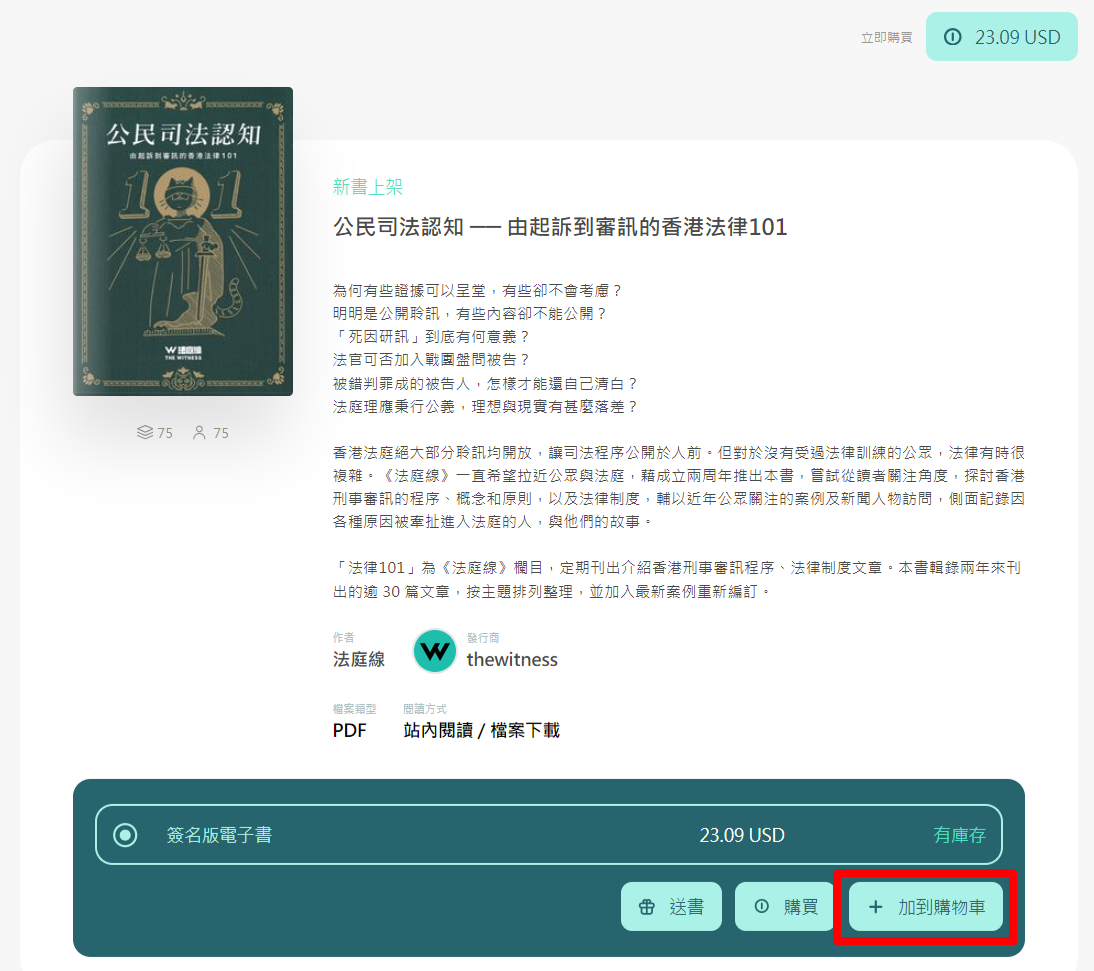
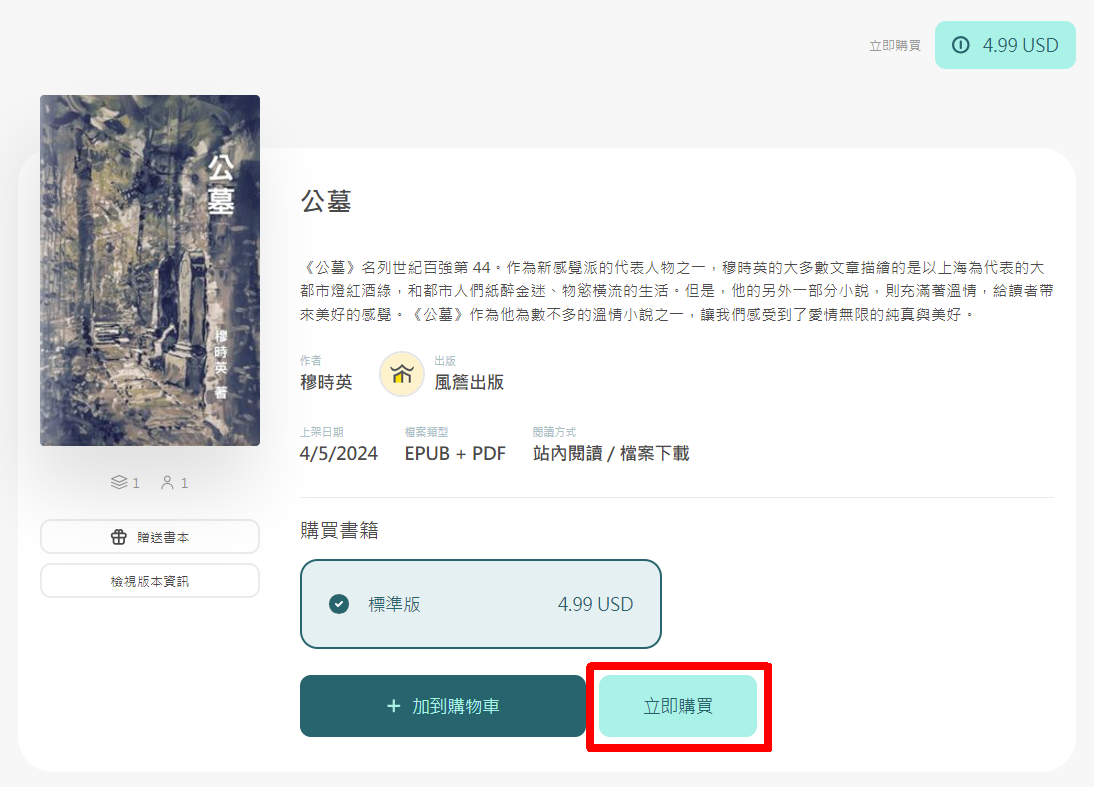
GITBOOK-4725: 購買電子書

diff --git a/SUMMARY.md b/SUMMARY.md
@@ -19,11 +19,11 @@
   * [修改已出版的電子書資料](depub/nft-book-press/modify.md)
   * [銷毁已出版的電子書](depub/nft-book-press/burn.md)
 * [購買電子書](depub/ebook/README.md)
+  * [送贈電子書](depub/ebook/gift.md)
   * [閱讀電子書](depub/ebook/read.md)
   * [匯入電子書檔到閱讀器](depub/ebook/ereader/README.md)
     * [匯入電子書檔到 Readmoo](depub/ebook/ereader/readmoo.md)
     * [匯入電子書檔到 Kobo](depub/ebook/ereader/hui-ru-dian-zi-shu-dang-dao-kobo.md)
-  * [送贈電子書](depub/ebook/gift.md)
   * [其他電子書平台](depub/ebook/book-platform/README.md)
     * [端點出版](depub/ebook/book-platform/terminuspress.md)
     * [董富記](depub/ebook/book-platform/dungfookei.md)
@@ -207,10 +207,6 @@
 
 * [過期內容存檔](archive/archive/README.md)
   * [LikeCoin 進度更新](archive/archive/updates.md)
-  * [錢包](archive/archive/wallet/README.md)
-    * [Big Dipper](archive/archive/wallet/big-dipper.md)
-    * [Mintscan](archive/archive/wallet/mintscan.md)
-    * [Ledger](archive/archive/wallet/hardware-wallet.md)
   * [Writing NFT](archive/archive/writing-nft/README.md)
     * [ISCN Wallet](archive/archive/writing-nft/iscn-wallet.md)
     * [使用 LikeCoin app 以文章網址出版 Writing NFT](archive/archive/writing-nft/likecoin-app.md)
@@ -221,6 +217,10 @@
     * [閱讀列表](archive/archive/liker-land/reading-list.md)
     * [即時數據](archive/archive/liker-land/real-time-statistic.md)
     * [支援網站列表](archive/archive/liker-land/list-of-media.md)
+  * [錢包](archive/archive/wallet/README.md)
+    * [Big Dipper](archive/archive/wallet/big-dipper.md)
+    * [Mintscan](archive/archive/wallet/mintscan.md)
+    * [Ledger](archive/archive/wallet/hardware-wallet.md)
   * [Civic Liker Classic 與 2.0](archive/archive/civic-liker-classic-and-2.0/README.md)
     * [如何訂閱讚賞公民](archive/archive/civic-liker-classic-and-2.0/be-a-civic-liker.md)
     * [如何修改付款信用卡資料](archive/archive/civic-liker-classic-and-2.0/change-credit-card.md)

diff --git a/depub/ebook/README.md b/depub/ebook/README.md
@@ -10,17 +10,17 @@ description: 如何購買電子書
 
 你可以將書加入購物車或直接購買：
 
-### 加入購物車
+### 加到購物車
 
-在作品頁面點「加入購物車」。
+在作品頁面點「加到購物車」。
 
-<figure><img src="../../.gitbook/assets/Collect NFT Book 1a.png" alt=""><figcaption><p>點「加入購物車」</p></figcaption></figure>
+<figure><img src="../../.gitbook/assets/Collect NFT Book 1.png" alt=""><figcaption><p>點「加到購物車」</p></figcaption></figure>
 
 ### 直接購買
 
-在作品頁面上點「購買」。
+在作品頁面上點「立即購買」。
 
-<figure><img src="../../.gitbook/assets/Collect NFT Book 1.png" alt=""><figcaption><p>點「購買」</p></figcaption></figure>
+<figure><img src="../../.gitbook/assets/Collect NFT Book 1a.png" alt=""><figcaption></figcaption></figure>
 
 ## 步驟二：額外支持 <a href="#step-2" id="step-2"></a>
 

diff --git a/depub/ebook/gift.md b/depub/ebook/gift.md
@@ -4,6 +4,10 @@ description: 贈書給親朋好友
 
 # 送贈電子書
 
+{% hint style="danger" %}
+2024/12/01 存檔。資訊已過期。
+{% endhint %}
+
 送贈電子書功能只適用於以信用卡付款，送書步驟如下：
 
 ## 步驟一：開始送書
